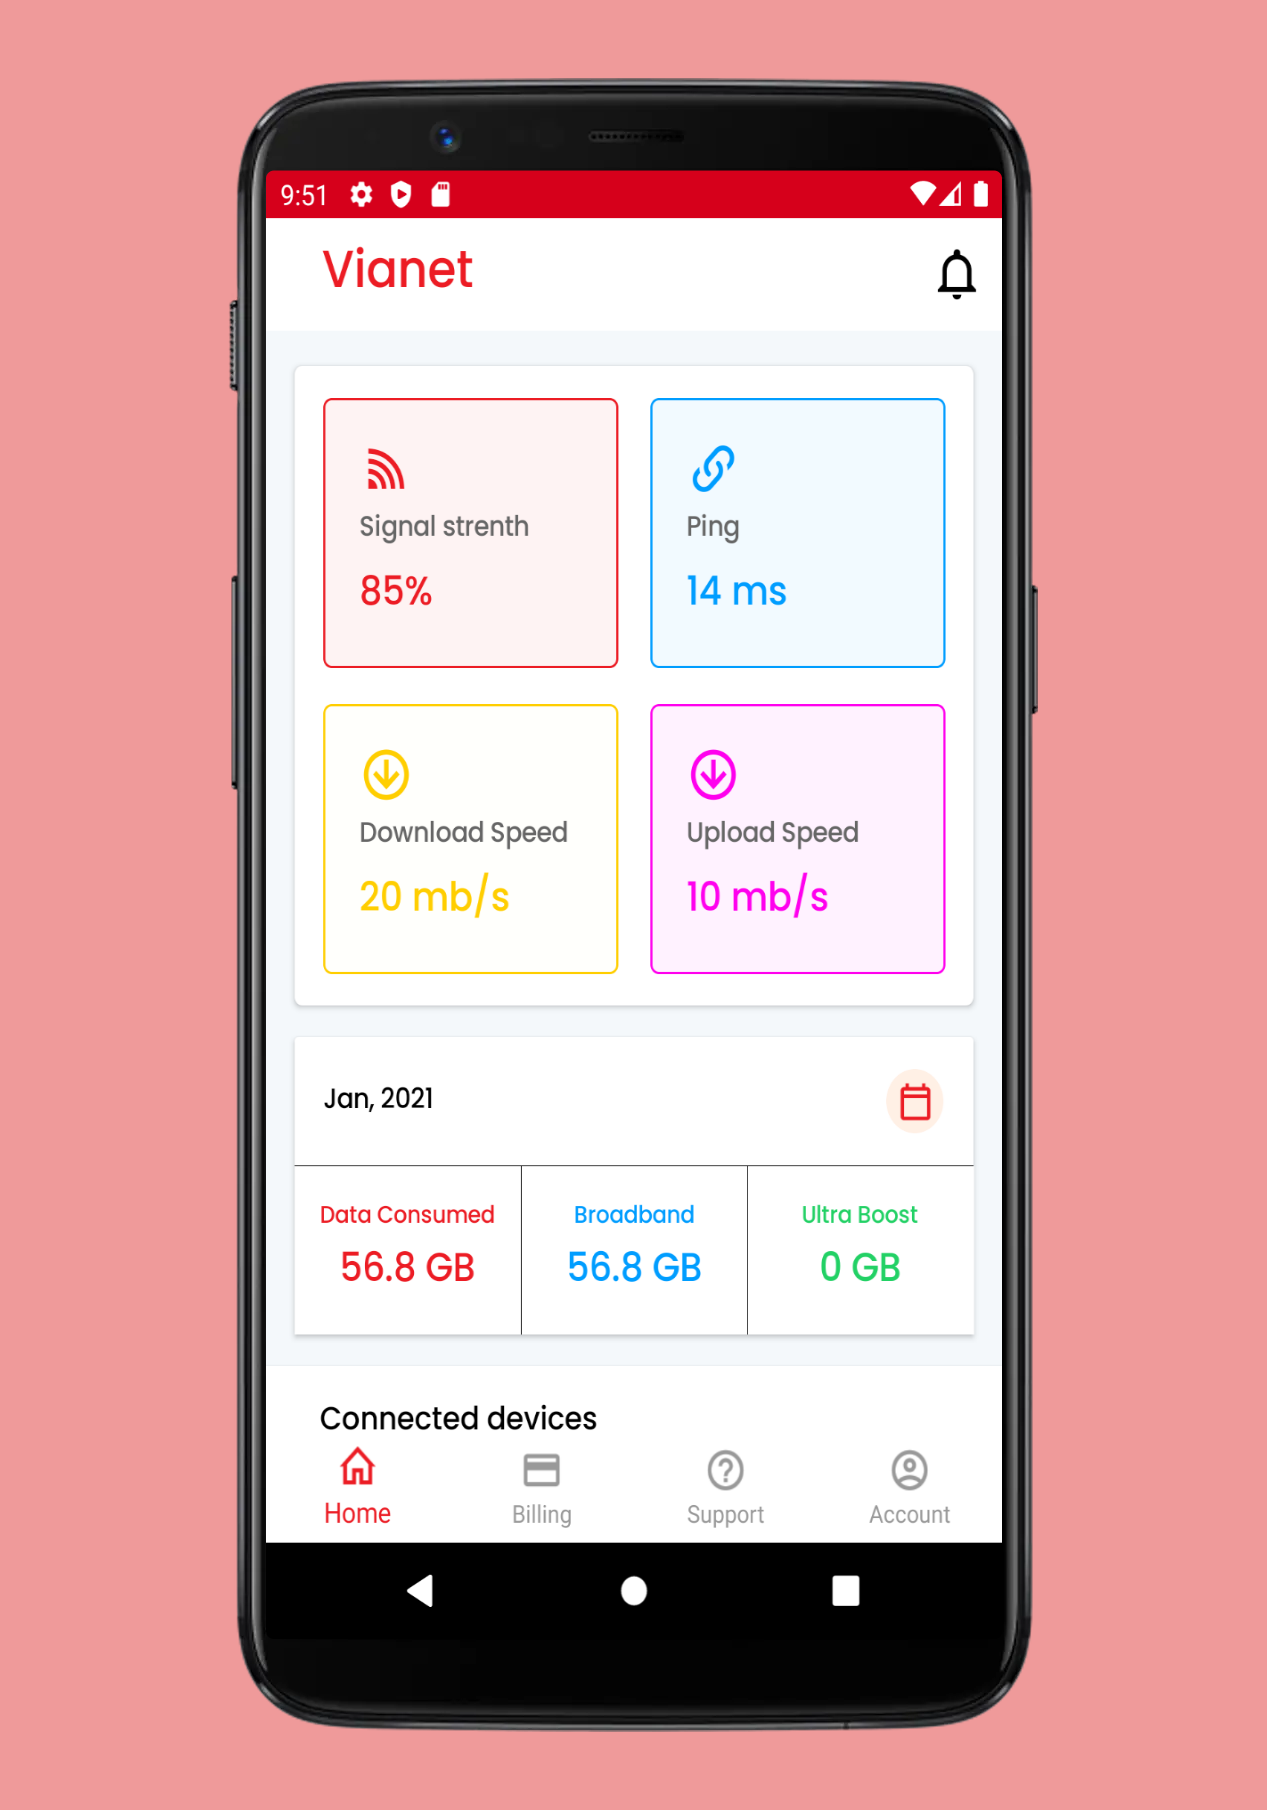
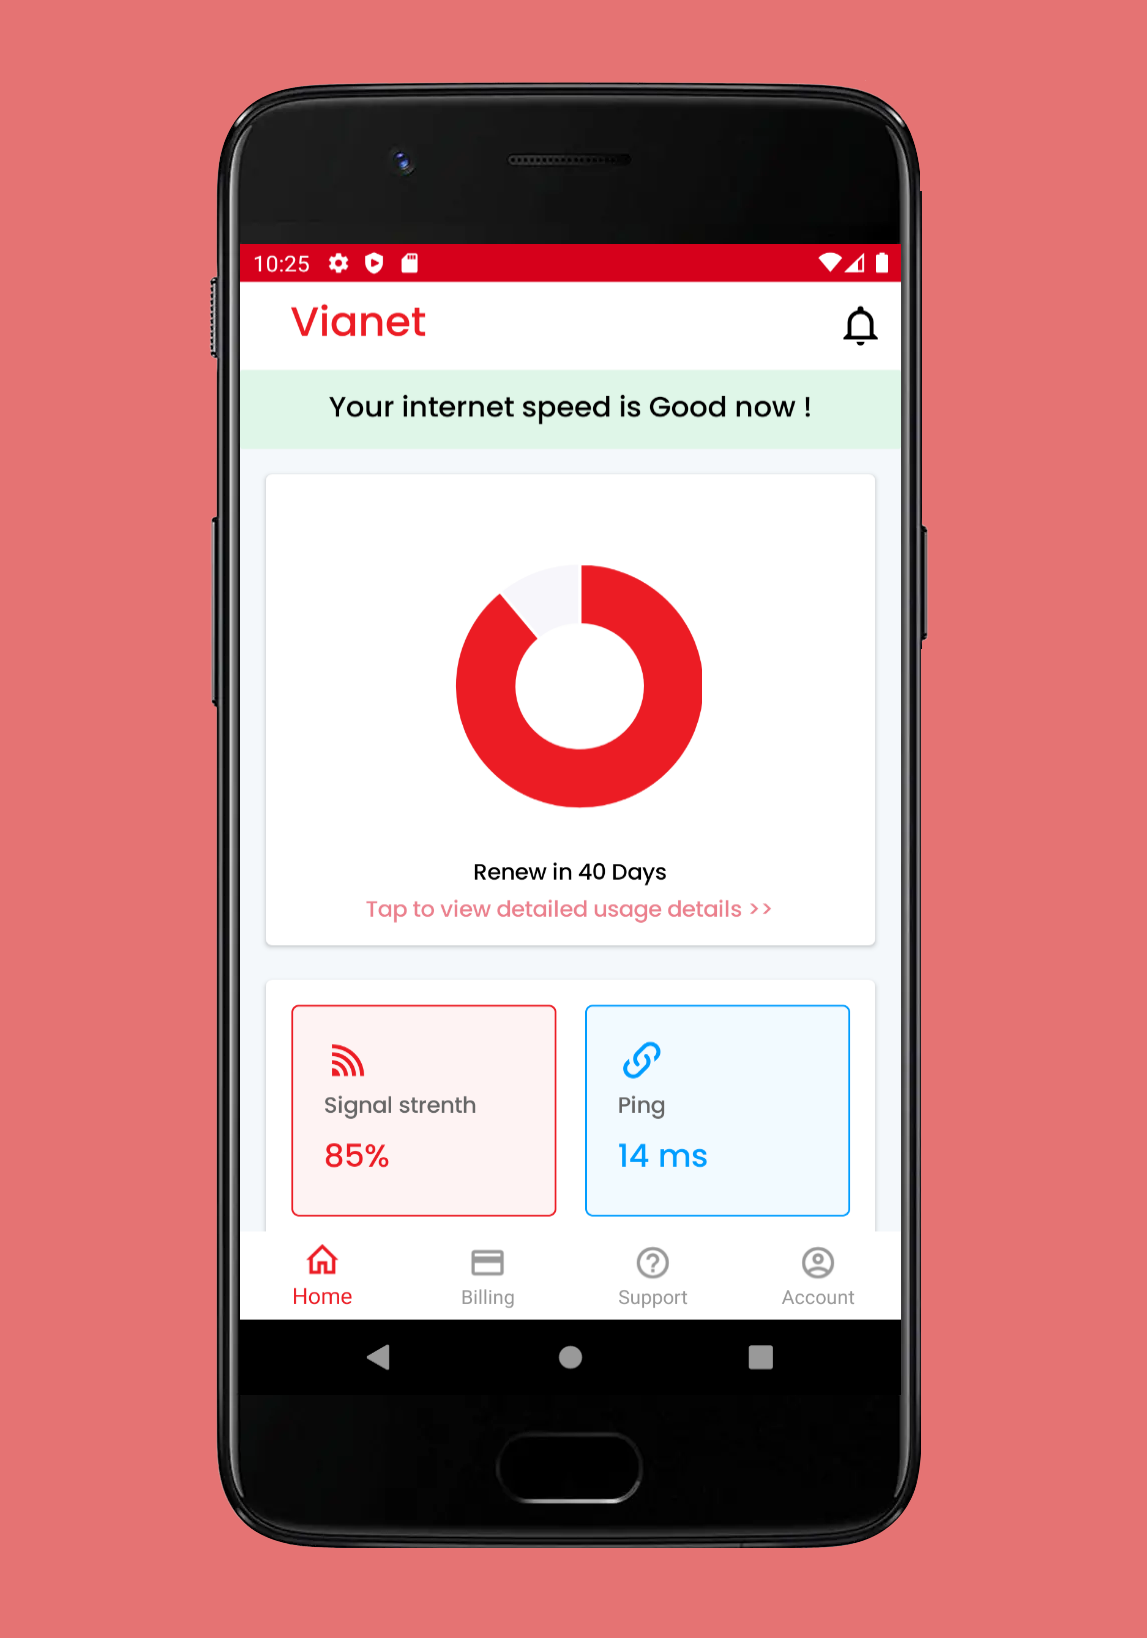
Homepage graph added with chart.js

diff --git a/Vianet/Vianet/Views/HomePage.xaml b/Vianet/Vianet/Views/HomePage.xaml
@@ -72,15 +72,26 @@
 
                     <StackLayout Spacing="0">
                         <Frame
-                            Margin="30"
+                            Margin="24"
                             Padding="0"
-                            BackgroundColor="#F7F6FB"
                             CornerRadius="97"
                             HasShadow="False"
                             HeightRequest="194"
                             HorizontalOptions="CenterAndExpand"
                             VerticalOptions="CenterAndExpand"
-                            WidthRequest="194" />
+                            WidthRequest="194">
+                            <WebView
+                                x:Name="graph"
+                                BackgroundColor="Transparent"
+                                HeightRequest="164"
+                                HorizontalOptions="Center"
+                                VerticalOptions="FillAndExpand"
+                                WidthRequest="164">
+                                <WebView.Source>
+                                    <HtmlWebViewSource Html="{Binding ReportHtml}" />
+                                </WebView.Source>
+                            </WebView>
+                        </Frame>
 
                         <Label
                             FontAttributes="Bold"

diff --git a/Vianet/Vianet/Views/HomePage.xaml.cs b/Vianet/Vianet/Views/HomePage.xaml.cs
@@ -1,4 +1,5 @@
-using System;
+using Newtonsoft.Json;
+using System;
 using System.Collections.Generic;
 using System.Linq;
 using System.Text;
@@ -14,12 +15,18 @@ namespace Vianet.Views
     public partial class HomePage : ContentPage
     {
         public ICommand TapCommand { get; set; }
+        
         public HomePage()
         {
             BindingContext = this;
             InitializeComponent();
             addCommand();
             createCOllection();
+            var chartConfigScript = GetChartScript();
+            var html = GetHtmlWithChartConfig(chartConfigScript);
+            var htmlSource = new HtmlWebViewSource();
+            htmlSource.Html = html;
+            graph.Source = htmlSource;
         }
          void addCommand()
         {
@@ -43,6 +50,94 @@ namespace Vianet.Views
         private void TapGestureRecognizer_Tapped_datePickerFocus(object sender, EventArgs e)
         {
             datePicker.Focus();
+        }
+
+        private string GetHtmlWithChartConfig(string chartConfig)
+        {
+            var inlineStyle = "style=\"width:100%;height:100%;\"";
+            var chartJsScript = "<script src=\"https://cdnjs.cloudflare.com/ajax/libs/Chart.js/2.7.1/Chart.bundle.min.js\"></script>";
+            var chartConfigJsScript = $"<script>{chartConfig}</script>";
+            var chartContent = $@"<div id=""chart-container"" {inlineStyle}>
+  <canvas id=""chart"" />
+</div>";
+            var document = $@"<html style=""width:97%;height:100%;"">
+  <head>{chartJsScript}</head>
+  <body {inlineStyle}>
+    {chartContent}
+    {chartConfigJsScript}
+  </body>
+</html>";
+            return document;
+        }
+
+        private string GetChartScript()
+        {
+            var chartConfig = GetSpendingChartConfig();
+            var script = $@"var config = {chartConfig};
+window.onload = function() {{
+  var canvasContext = document.getElementById(""chart"").getContext(""2d"");
+  new Chart(canvasContext, config);
+}};";
+            return script;
+        }
+
+        private string GetSpendingChartConfig()
+        {
+            var config = new
+            {
+                type = "doughnut",
+                data = GetPieChartData(),
+                options = new
+                {
+                    responsive = true,
+                    maintainAspectRatio = false,
+                    //legend = new
+                    //{
+                    //    position = "top"
+                    //},
+                    animation = new
+                    {
+                        animateScale = true
+                    }
+                }
+            };
+            var jsonConfig = JsonConvert.SerializeObject(config);
+            return jsonConfig;
+        }
+
+        private object GetPieChartData()
+        {
+            var colors = GetDefaultColors();
+            var labels = new[] { "Gone", "Remaining" };
+           // var randomGen = new Random();
+            var dataPoints = new[] { 325, 40 };
+            var data = new
+            {
+                datasets = new[]
+                {
+                    new
+                    {                        
+                        data = dataPoints,
+                        backgroundColor = dataPoints.Select((d, i) =>
+                        {
+                            var color = colors[i % colors.Count];
+                            return $"rgb({color.Item1},{color.Item2},{color.Item3})";
+                        })
+                    }
+                },
+                //labels
+            };
+            return data;
+        }
+
+        private List<Tuple<int, int, int>> GetDefaultColors()
+        {
+            return new List<Tuple<int, int, int>>
+            {
+                new Tuple<int, int, int>(236,28,36),
+                new Tuple<int, int, int>(247,246,251)
+               
+            };
         }
     }
 }

diff --git a/Vianet/Vianet/App.xaml.cs b/Vianet/Vianet/App.xaml.cs
@@ -11,7 +11,7 @@ namespace Vianet
         {
             InitializeComponent();
 
-            MainPage = new WelcomePage();
+            MainPage = new MainPage();
         }
 
         protected override void OnStart()

diff --git a/README.md b/README.md
@@ -21,6 +21,7 @@ Link: https://andreinitescu.github.io/IconFont2Code/
 <img  src="Screenshot/1.png" width="320" height="450"> <img src="Screenshot/2.png" width="320" height="450">  <br>
 <img src="Screenshot/3.png" width="320" height="450">  <img  src="Screenshot/4.png" width="320" height="450"> <br>
 <img src="Screenshot/5.png" width="320" height="450"> <img src="Screenshot/6.png" width="320" height="450"> <br>
+<img src="Screenshot/7.png" width="320" height="450">
 
 
 
